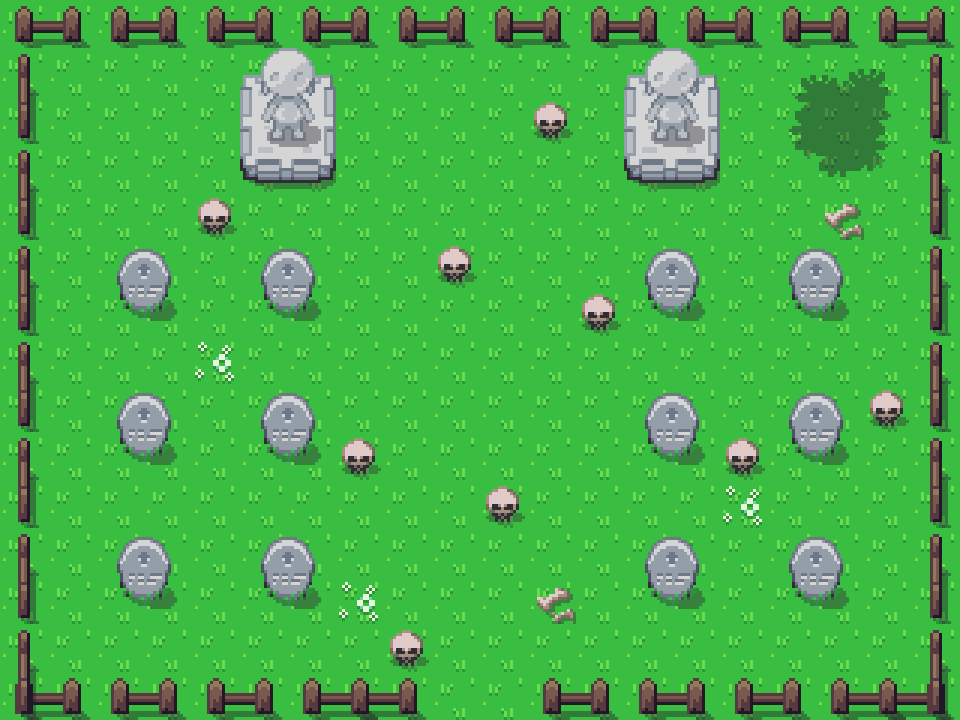
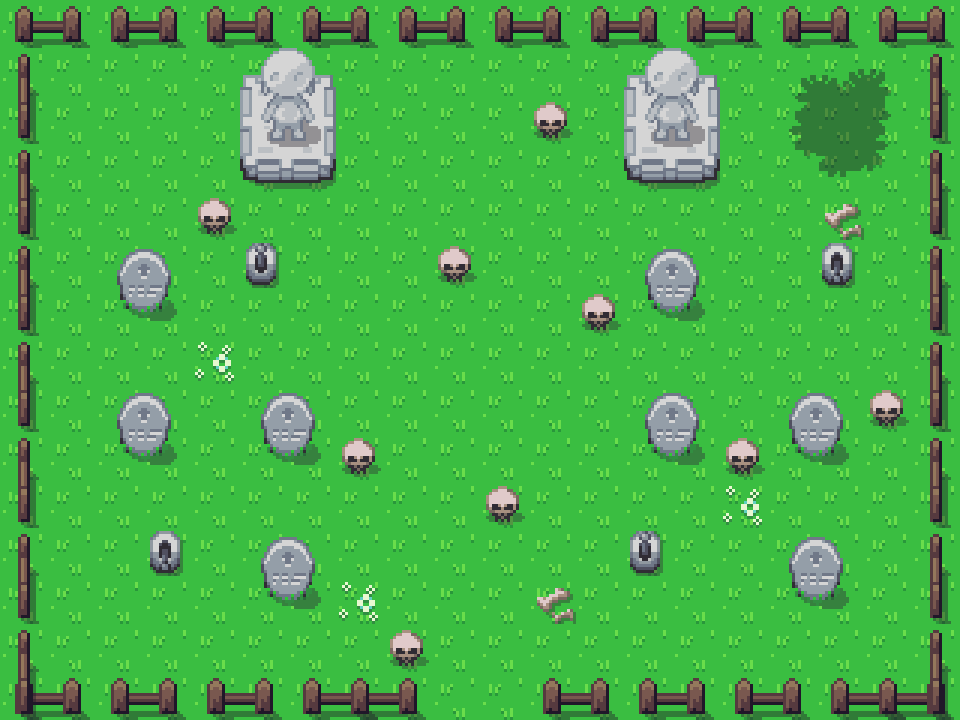
wip(space): 14 new micro-scenes complete the outdoor tile exploration
The audited batch: well_plaza, dock, ruins (abandoned watchtower),
fortress_gate (moated gatehouse + bridge), village_gate, fountain_garden,
forest_shrine, stepping_stones, witch_camp, boulder_field, stump_grove,
river_rapids, hillside_cave, plus graveyard variety and pond/forge
enrichments. Pipeline gains multi-sheet slicing, fractional detail()
anchors and a deterministic cliff_south primitive; 21 curated tiles from
the cave/objects/log sheets and 6 more rect fixes (tower footing,
castle_gate half-tile straddle, cauldron, cave_mouth, river rocks carved
from the boulder_large grab-bag).

diff --git a/docs/plans/espaco.virtual/gfx/tools/pipeline_scenes.py b/docs/plans/espaco.virtual/gfx/tools/pipeline_scenes.py
@@ -17,6 +17,8 @@ def pond():
     for (x, y) in [(7, 5), (12, 4), (16, 6), (9, 9), (14, 10)]:
         s.prop("water_lily", x, y)
     s.prop("water_lilies_cluster", 10, 6)
+    s.prop("water_ripple", 8, 8)
+    s.prop("water_ripple", 15, 5)
     s.prop("tree_stumps", 20, 2); s.prop("log_horizontal", 1, 7)
     s.prop("bush_round", 2, 13); s.prop("bush_round", 20, 13)
     return s
@@ -102,6 +104,8 @@ def blacksmith_forge():
     s.prop("hedge_block", 1, 3)
     s.prop("hedge_block", 7, 1)
     s.prop("hedge_block", 7, 3)
+    s.prop("flowerpot_sprout", 3, 5)         # potted sprouts flanking the door
+    s.prop("flowerpot_sprout", 6, 5)
     s.prop("crate_x", 2, 8)
     s.prop("tree_stumps", 8, 9)              # chopping block
     s.prop("log_horizontal", 11, 9)          # log pile awaiting the axe
@@ -176,12 +180,13 @@ def graveyard():
     s.fence_rect(0, 0, 19, 14, openings=[(9, 14), (10, 14)])
     s.prop("statue_relief", 5, 1)            # guardians watching over the yard
     s.prop("statue_relief", 13, 1)
-    for gy in (5, 8, 11):                    # west tomb rows
-        for gx in (2, 5):
-            s.prop("stone_slab_round", gx, gy)
-    for gy in (5, 8, 11):                    # east tomb rows
-        for gx in (13, 16):
-            s.prop("stone_slab_round", gx, gy)
+    for (gx, gy) in [(2, 5), (2, 8), (5, 8), (5, 11),      # west tomb rows
+                     (13, 5), (16, 8), (13, 8), (16, 11)]:  # east tomb rows
+        s.prop("stone_slab_round", gx, gy)
+    s.prop("grave_stone_a", 5, 5)            # humbler headstones mixed in
+    s.prop("grave_stone_b", 3, 11)
+    s.prop("grave_stone_b", 17, 5)
+    s.prop("grave_stone_a", 13, 11)
     s.prop("bush_dead_grey", 16, 1)          # the graveyard yew
     s.prop("flowers_white", 4, 7)
     s.prop("flowers_white", 15, 10)
@@ -216,10 +221,228 @@ def campfire():
     return s
 
 
+def well_plaza():
+    # A small village square: the lidded well at the centre of a gravel plaza,
+    # one bench, vertical hedges marking the four corners.
+    s = Scene(13, 10, "grass")
+    s.fill(2, 2, 10, 7, "gravel")
+    s.prop("well_lidded", 5, 3)
+    s.prop("bench_wood", 4, 6)
+    for (x, y) in [(2, 2), (10, 2), (2, 6), (10, 6)]:
+        s.prop("hedge_block", x, y)
+    s.prop("flowers_white", 3, 4)
+    s.prop("flowers_white", 9, 4)
+    return s
+
+
+def dock():
+    # A river crossing: the stone bridge spans a 2-row channel (its side foam
+    # sits exactly on the water rows), cargo waits on the south-west bank and
+    # an islet breaks the water east of the bridge.
+    s = Scene(18, 13, "grass")
+    s.water(2, 6, 15, 9)                     # 4-row channel; bridge piers stand in it
+    s.prop("bridge_castle", 7, 5)            # cols7-11; side foam on water rows7-8
+    s.prop("crate_wood", 3, 10)              # the landing on the south bank
+    s.prop("barrel_wood", 4, 10)
+    s.prop("sack_flour", 5, 11)
+    s.prop("rock_islet", 13, 7)
+    s.prop("water_lily", 4, 7)
+    s.prop("bush_round", 14, 11)
+    s.prop("tree_foliage", 1, 2)
+    return s
+
+
+def ruins():
+    # An abandoned watchtower: the open-topped shell stands on a bare court,
+    # the rubble of its upper floors heaped at its foot, a dead tree beside it.
+    s = Scene(13, 11, "grass")
+    s.fill(3, 6, 9, 9, "dirt")               # the trampled court at its foot
+    s.prop("tower_stone_round", 4, 1)        # cols4-6, footing rests on the court
+    s.prop("rock_pile", 7, 6)                # fallen masonry against the base
+    s.prop("rock_boulder", 8, 7)
+    s.prop("rocks_row", 4, 8)                # rubble strewn across the court
+    s.prop("rock_pebbles_scatter", 3, 7)
+    s.prop("rock_pebbles_scatter", 8, 9)
+    s.prop("skull", 7, 7)                    # the last sentry
+    s.prop("bush_dead_grey", 8, 2)           # a dead tree beside the shell
+    return s
+
+
+def fortress_gate():
+    # The fortress approach: the gatehouse rises behind its moat, the stone
+    # bridge carries the road across, pawn obelisks watch the south bank.
+    # (The gate sprite was drawn to stand at water — the moat is its context.)
+    s = Scene(16, 15, "grass")
+    s.prop("castle_gate", 5, 0)              # cols5-9 rows0-5, arch mouth at 7-8
+    s.fill(6, 4, 8, 5, "gravel")             # paving filling the arch passage
+    s.water(2, 6, 13, 9)                     # the moat (4 rows: 2 open water)
+    s.detail("bridge_castle", 5, 5)          # bridge butted against the gate
+    s.fill(7, 10, 8, 14, "gravel")           # road butted to the south landing
+    s.prop("statue_pawn", 3, 10)
+    s.prop("statue_pawn", 12, 10)
+    s.prop("bush_round", 1, 1)
+    s.prop("bush_round", 13, 1)
+    return s
+
+
+def village_gate():
+    # The village boundary: a fence line broken by the stone arch gate, the
+    # road running through it, trees and bushes softening the wall.
+    s = Scene(14, 9, "grass")
+    s.fence_rect(0, 3, 13, 3, openings=[(5, 3), (6, 3), (7, 3), (8, 3)])
+    s.fill(6, 0, 7, 8, "gravel")             # the road through the gate
+    s.detail("gate_arch_wood", 5, 1)         # arch capping the fence gap
+    s.prop("bush_round", 3, 2)
+    s.prop("bush_round", 9, 2)
+    s.prop("tree_foliage", 1, 5)
+    s.prop("tree_foliage", 11, 5)
+    s.prop("flowers_white", 4, 6)
+    s.prop("flowers_white", 9, 6)
+    return s
+
+
+def fountain_garden():
+    # A formal garden: the fountain at the centre, clipped hedges at the four
+    # corners, flowers between them and one bench to sit and listen.
+    s = Scene(13, 11, "grass")
+    s.prop("fountain_stone", 5, 4)           # cols5-7 rows4-6
+    for (x, y) in [(2, 2), (10, 2), (2, 7), (10, 7)]:
+        s.prop("hedge_block", x, y)
+    for (x, y) in [(4, 3), (8, 3), (4, 7), (8, 7)]:
+        s.prop("flowers_white", x, y)
+    s.prop("bench_wood", 5, 8)
+    return s
+
+
+def forest_shrine():
+    # A shrine deep in the woods: skull idol between two totems on a bare
+    # earth pad, offering pots before them, the forest closing in.
+    s = Scene(13, 10, "grass")
+    s.fill(5, 3, 9, 6, "dirt")
+    s.prop("statue_totem_a", 5, 3)
+    s.prop("idol_skull", 7, 3)
+    s.prop("statue_totem_b", 9, 3)
+    s.prop("pot_stone_a", 6, 6)
+    s.prop("pot_stone_b", 8, 6)
+    for (x, y) in [(0, 0), (11, 0), (0, 7), (11, 7)]:
+        s.prop("tree_foliage", x, y)
+    s.prop("flowers_white", 4, 7)
+    s.prop("flowers_white", 10, 7)
+    return s
+
+
+def stepping_stones():
+    # A creek crossed on stepping stones: the path reaches both banks and the
+    # stones carry it over the water; an islet sits downstream.
+    s = Scene(15, 9, "grass")
+    s.water(2, 3, 12, 6)                     # 4 rows: the middle two are open water
+    s.fill(6, 0, 7, 2, "gravel")
+    s.fill(6, 7, 7, 8, "gravel")
+    s.prop("stepping_stones", 5, 4)          # cols5-7, on the open-water rows
+    s.prop("stepping_stone", 6, 5)
+    s.prop("stepping_stone", 7, 5)
+    s.prop("rock_islet", 10, 4)
+    s.prop("water_lily", 3, 5)
+    s.prop("tree_foliage", 1, 0)
+    s.prop("bush_round", 11, 7)
+    return s
+
+
+def witch_camp():
+    # A witch's camp on scorched ground: the cauldron, a small fire, offering
+    # pots, and bones where visitors stood too long.
+    s = Scene(14, 11, "grass")
+    s.fill(4, 3, 9, 8, "dirt")
+    s.prop("cauldron_grey", 6, 4)            # pot art sits at x6.5-7.5, y4.3-5.2
+    s.detail("coal_bed", 6.5, 6.1)           # fire bed aligned right under the pot
+    s.detail("flame_fire", 6.5, 5.2)         # flames licking the cauldron's base
+    s.prop("pot_stone_a", 8, 5)
+    s.prop("pot_stone_b", 9, 5)
+    for (x, y) in [(4, 4), (9, 7), (11, 9)]:
+        s.prop("skull", x, y)
+    s.prop("bone", 7, 8)
+    s.prop("bush_dead_grey", 11, 1)
+    s.prop("tree_foliage", 0, 0)
+    s.prop("tree_foliage", 0, 8)
+    return s
+
+
+def boulder_field():
+    # A rocky outcrop in the meadow: one great mossy boulder and its satellites
+    # trailing off into pebbles and tufts.
+    s = Scene(13, 9, "grass")
+    s.prop("boulder_pile", 5, 3)             # cols5-6 rows3-4
+    s.prop("rock_boulder", 8, 2)
+    s.prop("rock_pile", 3, 5)
+    s.prop("rocks_row", 7, 6)
+    s.prop("rock_small", 4, 2)
+    s.prop("rock_pebbles_scatter", 6, 6)
+    s.prop("rock_pebbles_scatter", 9, 4)
+    s.prop("pebble_stone", 2, 3)
+    return s
+
+
+def river_rapids():
+    # A broad river broken by rock: the great smooth boulder mid-stream, a run
+    # of foaming rocks below it, a cluster upstream — quiet banks either side.
+    s = Scene(18, 12, "grass")
+    s.water(1, 2, 16, 9)                     # 8-row river: rows3-8 open water
+    s.prop("river_boulder", 5, 4)            # the great stone, mid-stream
+    s.prop("river_rocks", 9, 6)              # foaming run below it
+    s.prop("river_rock_cluster", 12, 3)      # upstream cluster
+    s.prop("water_ripple", 8, 3)
+    s.prop("water_ripple", 14, 7)
+    s.prop("water_lily", 3, 7)
+    s.prop("tree_foliage", 13, 0)
+    s.prop("bush_round", 2, 10)
+    return s
+
+
+def hillside_cave():
+    # The hillside: a south-facing escarpment crosses the scene, the cave mouth
+    # opens at ground level, a trail leads away from it; the woods sit on the
+    # plateau above, rocks at the cliff's foot.
+    s = Scene(16, 10, "grass")
+    s.cliff_south(0, 15, 3)                  # lip row3, footed base row4
+    s.detail("cave_mouth", 7, 2)             # mouth column + its plateau crack
+    s.fill(7, 5, 7, 9, "gravel")             # trail from the entrance
+    s.prop("tree_foliage", 1, 0)             # the woods up on the plateau
+    s.prop("tree_foliage", 11, 0)
+    s.prop("bush_round", 5, 1)
+    s.prop("rock_pile", 3, 6)                # scree at the cliff's foot
+    s.prop("rock_boulder", 11, 5)
+    s.prop("rock_pebbles_scatter", 5, 5)
+    s.prop("bush_round", 12, 8)
+    s.prop("flowers_white", 3, 8)
+    return s
+
+
+def stump_grove():
+    # A felled corner of the woods — except one of the stumps is asleep.
+    s = Scene(12, 9, "grass")
+    s.prop("tree_foliage", 1, 1)
+    s.prop("tree_foliage", 8, 1)
+    s.prop("tree_foliage", 2, 6)
+    s.prop("stump_plain", 3, 3)
+    s.prop("stump_creature_sleep", 5, 4)     # the one that snores
+    s.prop("stump_plain", 8, 5)
+    s.prop("bush_clover", 7, 3)
+    s.prop("bush_clover", 4, 6)
+    s.prop("flowers_white", 6, 2)
+    s.prop("flowers_white", 9, 4)
+    return s
+
+
 SCENES = {"pond": pond, "path_demo": path_demo, "churchyard": churchyard,
           "market": market, "blacksmith_forge": blacksmith_forge,
           "farmstead": farmstead, "orchard": orchard, "graveyard": graveyard,
-          "campfire": campfire}
+          "campfire": campfire, "well_plaza": well_plaza, "dock": dock,
+          "ruins": ruins, "fortress_gate": fortress_gate,
+          "village_gate": village_gate, "fountain_garden": fountain_garden,
+          "forest_shrine": forest_shrine, "stepping_stones": stepping_stones,
+          "witch_camp": witch_camp, "boulder_field": boulder_field,
+          "stump_grove": stump_grove, "river_rapids": river_rapids,
+          "hillside_cave": hillside_cave}
 
 if __name__ == "__main__":
     for n in (sys.argv[1:] or list(SCENES)):

diff --git a/docs/plans/espaco.virtual/gfx/tools/pipeline.py b/docs/plans/espaco.virtual/gfx/tools/pipeline.py
@@ -44,7 +44,9 @@ FILL = {
 POND = {"tl": "pond_tl", "tm": "pond_tm", "tr": "pond_tr",
         "ml": "pond_ml", "mm": "pond_c", "mr": "pond_mr",
         "bl": "pond_bl", "bm": "pond_bm", "br": "pond_br"}
-WATER_PROPS = {"water_lily", "water_lilies_cluster", "water_ripple"}   # must sit on water
+WATER_PROPS = {"water_lily", "water_lilies_cluster", "water_ripple",
+               "stepping_stones", "stepping_stone", "rock_islet",
+               "river_boulder", "river_rock_cluster", "river_rocks"}  # must sit on water
 
 
 def _rect(name):
@@ -74,6 +76,7 @@ class Scene:
         self.opening = set()                             # entrance cells (no fence)
         self.props = []                                  # standalone objects (overlap-checked)
         self.details = []                                # overlays (door/chimney/window) on a prop
+        self.cliffs = []                                 # (x0, x1, y, h) escarpments
 
     def inb(self, x, y):
         return 0 <= x < self.w and 0 <= y < self.h
@@ -97,6 +100,12 @@ class Scene:
         overlap-checked. x/y may be fractional to centre it on its carrier
         (e.g. a flame half a tile above the coals so the bed stays visible)."""
         self.details.append((name, x, y))
+
+    def cliff_south(self, x0, x1, y, h=2):
+        """A south-facing escarpment from (x0,y) to (x1,y): grass lip row, then
+        face rows (h-2 of them), then the rocky base row. h=2 is the sheet's
+        short cliff (lip + footed base); taller cliffs insert face rows."""
+        self.cliffs.append((x0, x1, y, h))
 
     def fence_rect(self, x0, y0, x1, y1, openings=()):
         """Mark a fence around a rectangle. `openings` = list of (x, y) cells to
@@ -200,6 +209,9 @@ class Scene:
             _, _, w, h = _rect(name)
             if x < 0 or y < 0 or x + w > self.w or y + h > self.h:
                 issues.append(f"OFF-MAP detail: {name} at ({x},{y}) {w}x{h}")
+        for (x0, x1, y, ch) in self.cliffs:
+            if x0 < 0 or x1 >= self.w or y < 0 or y + ch > self.h or ch < 2:
+                issues.append(f"OFF-MAP cliff: ({x0}..{x1}, {y}) h={ch}")
         # reachability: every opening should reach the map interior (flood over free cells)
         if self.opening:
             free = [[not blocked[y][x] for x in range(self.w)] for y in range(self.h)]
@@ -233,6 +245,14 @@ class Scene:
             for x in range(self.w):
                 if self.mat[y][x] == "water":
                     base.alpha_composite(slice_full(self._water_tile(x, y))[0], (x * T, y * T))
+        # 2.5) escarpments: lip row, face rows, footed base row (terrain layer)
+        for (x0, x1, y, ch) in self.cliffs:
+            for x in range(x0, x1 + 1):
+                vx = "l" if x == x0 else ("r" if x == x1 else "m")
+                parts = ["lip"] + ["face"] * (ch - 2) + ["base"]
+                for dy, part in enumerate(parts):
+                    base.alpha_composite(
+                        slice_full(f"cliff_{part}_{vx}")[0], (x * T, (y + dy) * T))
         # 3) fence, drawn as aligned runs (h on top/bottom, v on the sides)
         self._draw_fence(base)
         # 4) props, painter-sorted (back-to-front), then overlay details on top

diff --git a/docs/plans/espaco.virtual/gfx/tools/showcase.py b/docs/plans/espaco.virtual/gfx/tools/showcase.py
@@ -61,6 +61,44 @@ CAT["coal_bed"] = {"name": "coal_bed", "sheet": "overworld",
 CAT["flame_fire"] = {"name": "flame_fire", "sheet": "objects",
                      "col": 8, "row": 3, "w": 1, "h": 1}
 
+# Curated props from the other sheets (the pipeline slices any catalog sheet).
+# Every rect was verified on-grass + in sheet context; cauldron_grey's catalog
+# 1x1 at c4r7 was an empty corner — the pot straddles c4-5 r6-7, so it gets a
+# 2x2 box (art centred inside it).
+for _n, _s, _c, _r, _w, _h in [
+    ("statue_totem_a", "cave", 6, 0, 1, 3),
+    ("statue_totem_b", "cave", 7, 0, 1, 3),
+    ("idol_skull", "cave", 8, 0, 1, 3),
+    ("idol_face", "cave", 9, 0, 1, 3),
+    ("rock_boulder", "cave", 5, 4, 1, 1),
+    ("rock_pile", "cave", 5, 5, 1, 1),
+    ("rock_pebbles_scatter", "cave", 5, 6, 1, 1),
+    ("rock_islet", "cave", 9, 7, 2, 2),          # boulder ringed by water foam
+    ("stepping_stones", "cave", 7, 9, 3, 1),     # foam baked in — water only
+    ("stepping_stone", "cave", 10, 9, 1, 1),     # foam baked in — water only
+    ("stump_creature_front", "log", 0, 0, 2, 2),
+    ("stump_creature_sleep", "log", 8, 0, 2, 2),
+    ("stump_plain", "log", 0, 4, 2, 2),
+    ("pot_stone_a", "objects", 13, 0, 1, 1),
+    ("pot_stone_b", "objects", 14, 0, 1, 1),
+    ("cauldron_grey", "objects", 4, 6, 2, 2),
+    ("grave_stone_a", "objects", 0, 8, 1, 1),
+    ("grave_stone_b", "objects", 1, 8, 1, 1),
+    ("bush_clover", "objects", 2, 0, 1, 1),
+    ("boulder_pile", "objects", 20, 0, 2, 2),
+    ("pebble_stone", "objects", 16, 1, 1, 1),
+    # River rocks carved out of the useless boulder_large 5x6 grab-bag rect
+    # (assorted sprites); foam baked in — water only.
+    ("river_boulder", "overworld", 13, 8, 2, 2),
+    ("river_rock_cluster", "overworld", 11, 7, 2, 2),
+    ("river_rocks", "overworld", 11, 10, 3, 1),
+    # The cliff-face cave mouth drawn to match the cliff_* tiles: crack-in-grass
+    # crown (r10), arch top on the lip row, arch on the base row — it replaces
+    # one column of a 2-row cliff_south plus the plateau tile above it.
+    ("cave_mouth", "overworld", 7, 10, 1, 3),
+]:
+    CAT[_n] = {"name": _n, "sheet": _s, "col": _c, "row": _r, "w": _w, "h": _h}
+
 # Corrections for catalog entries whose col/row/w/h clip or mis-frame the art
 # (verified by grid-inspecting overworld.png). See overworld-catalog-rect-bugs.
 RECT_FIX = {
@@ -85,6 +123,11 @@ RECT_FIX = {
     "gravel_light": (14, 11, 1, 1),
     "statue_pawn": (10, 22, 1, 4),   # 2x4 caught the coal_rocks column beside the pawn
     "tree_stumps": (4, 1, 2, 2),     # row2 2x1 cut off the stump tops (they span rows1-2)
+    "tower_stone_round": (0, 21, 3, 7),  # 3x6 cut the rounded footing at r27
+    # The gatehouse art straddles half-tiles (x 25.5-29.5) and its pillar feet
+    # (r28) carry baked water foam — col26 clipped the left tower; anchoring at
+    # col25 x 6 rows keeps it symmetric and cuts the water feet.
+    "castle_gate": (25, 22, 5, 6),
     # The awning stall: col17 is a separate jug-and-bottles table; the stall spans
     # cols18-22 and its counter front reaches row27 (6 rows, not 5).
     "market_stall_awning": (18, 22, 5, 6),
